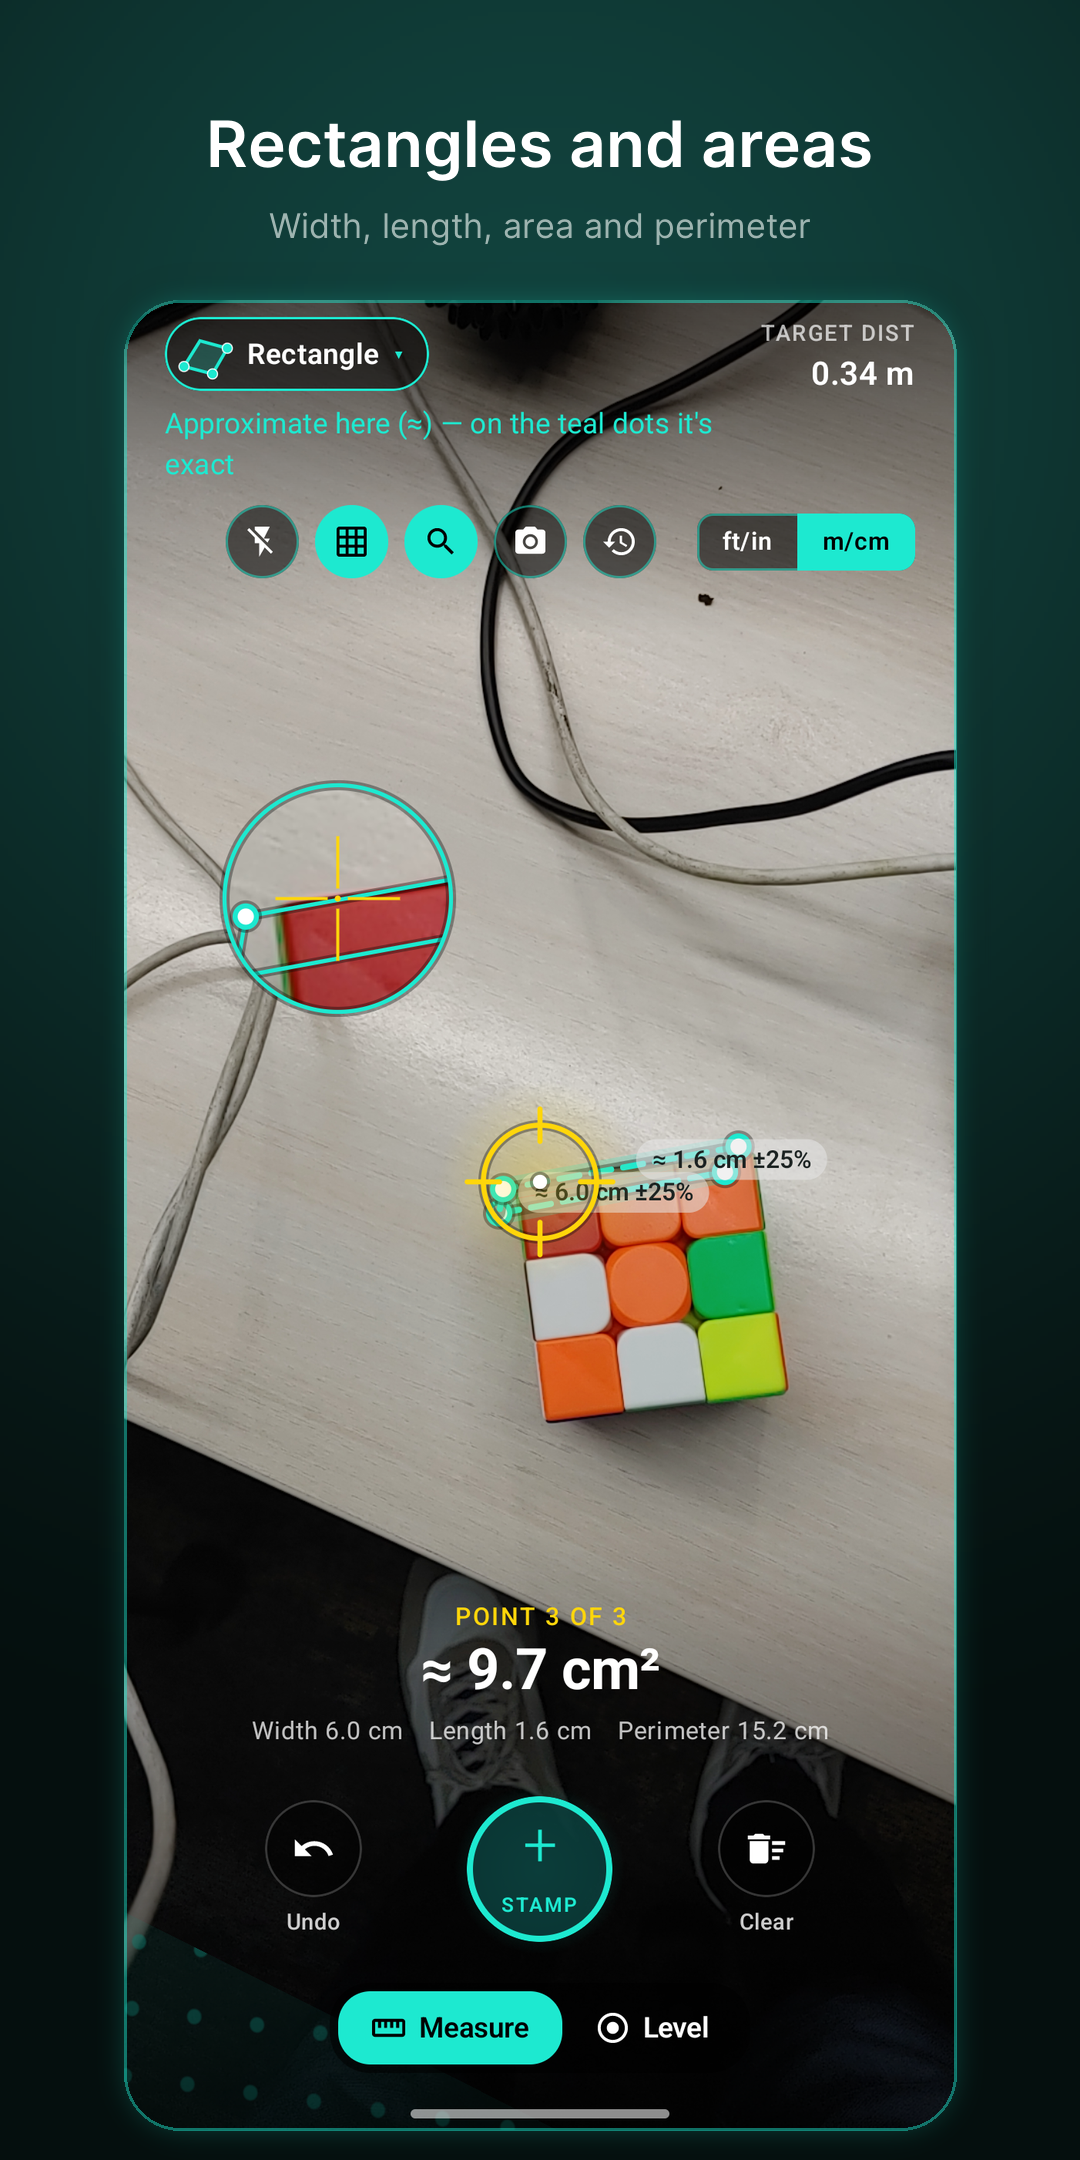
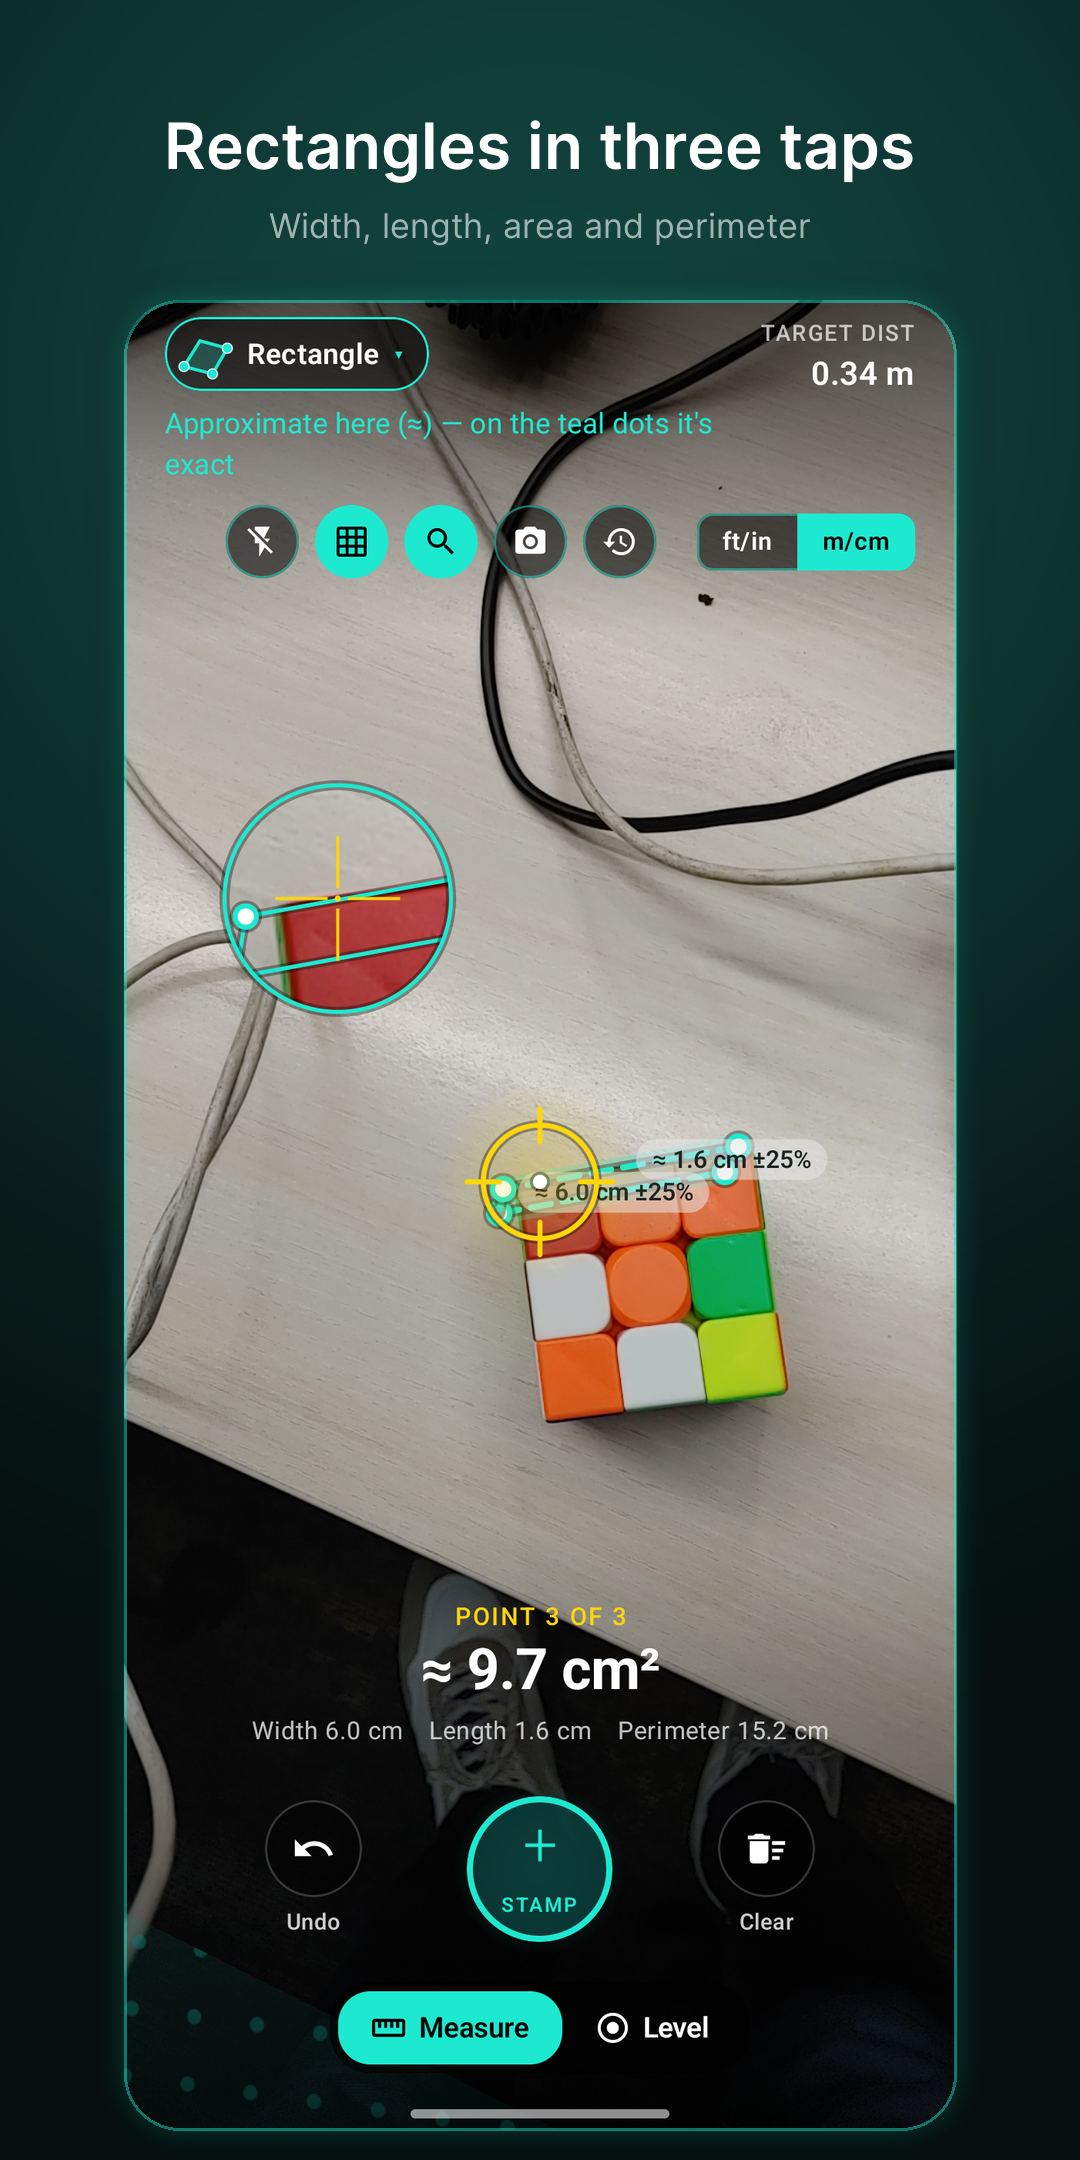
Height/Volume: a tap sets the top through the tapped point
The top of a height followed the crosshair even when the user tapped
the object's top. Use the ray through the tap (rayThrough), so heights
can be placed by tapping base then top.

Changed region(s): [[0.1528, 0.031, 0.8556, 0.0931]]

diff --git a/app/src/main/java/com/jhani/measurear/ar/ARSurfaceView.kt b/app/src/main/java/com/jhani/measurear/ar/ARSurfaceView.kt
@@ -787,12 +787,18 @@ class ARSurfaceView(
     }
 
     /** World-space origin and direction of the ray through the screen center. */
-    private fun centerRay(): Array<FloatArray>? {
+    private fun centerRay(): Array<FloatArray>? = rayThrough(viewportWidth / 2f, viewportHeight / 2f)
+
+    /** World-space origin and direction of the ray through view pixel ([x], [y]). */
+    private fun rayThrough(x: Float, y: Float): Array<FloatArray>? {
+        if (viewportWidth == 0 || viewportHeight == 0) return null
         val viewProjection = FloatArray(16)
         Matrix.multiplyMM(viewProjection, 0, projectionMatrix, 0, viewMatrix, 0)
         if (!Matrix.invertM(inverseViewProjection, 0, viewProjection, 0)) return null
-        val near = unproject(0f, 0f, -1f)
-        val far = unproject(0f, 0f, 1f)
+        val ndcX = 2f * x / viewportWidth - 1f
+        val ndcY = 1f - 2f * y / viewportHeight
+        val near = unproject(ndcX, ndcY, -1f)
+        val far = unproject(ndcX, ndcY, 1f)
         val dir = floatArrayOf(far[0] - near[0], far[1] - near[1], far[2] - near[2])
         val len = sqrt(dir[0] * dir[0] + dir[1] * dir[1] + dir[2] * dir[2])
         if (len < 1e-6f) return null
@@ -1218,13 +1224,14 @@ class ARSurfaceView(
         (mode == MeasureMode.HEIGHT && index == 1) || (mode == MeasureMode.VOLUME && index == 3)
 
     /** Where the next point of the current shape would go, and whether it is reliable. */
-    private fun nextShapePoint(target: ReticleTarget?): Pair<Vec3, Boolean>? {
+    private fun nextShapePoint(target: ReticleTarget?, tap: FloatArray? = null): Pair<Vec3, Boolean>? {
         val mode = sessionManager.mode
         val draft = sessionManager.draft
         if (isVerticalStep(mode, draft.size)) {
             val base = draft.getOrNull(if (mode == MeasureMode.VOLUME) 1 else 0) ?: return null
             if (base.anchor.trackingState != TrackingState.TRACKING) return null
-            val ray = centerRay() ?: return null
+            // The top is where the line of sight (crosshair, or through the tap) passes the vertical
+            val ray = (if (tap != null) rayThrough(tap[0], tap[1]) else centerRay()) ?: return null
             val top = Geometry.verticalFromBase(base.anchor.pose.toVec(), ray[0].toVec(), ray[1].toVec()) ?: return null
             return top to base.onSurface
         }
@@ -1260,7 +1267,8 @@ class ARSurfaceView(
         }
 
         val vertical = isVerticalStep(mode, draft.size)
-        val (point, onSurface) = nextShapePoint(if (vertical) null else target) ?: run {
+        val tap = if (fromTap) floatArrayOf(tapX, tapY) else null
+        val (point, onSurface) = nextShapePoint(if (vertical) null else target, tap) ?: run {
             sessionManager.showHint(
                 if (surfaceCount == 0) "Nothing to measure on yet — sweep the phone slowly over the floor or a wall"
                 else "Nothing under the crosshair — aim at a surface or object"
